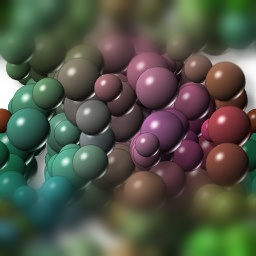
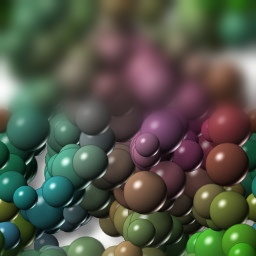
organizando repositorio

diff --git a/spatialFilters/Python/tilt_shift_video.py b/spatialFilters/Python/tilt_shift_video.py
@@ -3,36 +3,60 @@ import cv2
 import numpy as np
 
 
+
+def show_image(dtype):
+    while "e" != chr(cv2.waitKey(1) & 255):
+        output_frame = (tilt_shift.tilt_shift * 255).astype(dtype)
+        cv2.imshow("output_fraeme.astype(frame.dtype)", cv2.resize(output_frame, (500, 500)))
+
+
 def main():
     cap = cv2.VideoCapture("data/ToyStoryScene.mkv")
-    frame_size = 500
-    out = cv2.VideoWriter("data/Toy_Story_tilted.avi", cv2.VideoWriter_fourcc("M", "J", "P", "G"),
-                          int(cap.get(cv2.CAP_PROP_FPS)),
-                          (frame_size, frame_size))
 
-    tilt_shift = TiltShift(60, 100, 33)
+    frame_width = int(cap.get(cv2.CAP_PROP_FRAME_WIDTH))
+
+    frame_height = int(cap.get(cv2.CAP_PROP_FRAME_HEIGHT))
+
+    fourcc = cv2.VideoWriter_fourcc(*'XVID')
+    fourcc_2 = cv2.VideoWriter_fourcc("M", "J", "P", "G")
+    out = cv2.VideoWriter("data/Toy_Story_tilted.mkv", fourcc,
+                          int(cap.get(cv2.CAP_PROP_FPS)),
+                          (frame_width, frame_height))
+
+    tilt_shift = TiltShift(25, 45, 33)
+
+
     tilt_shift.show_track_bars("Tilt-Shift")
 
     if not cap.isOpened():
         print("erro vídeo não encontrado")
         exit(1)
-
+    if not out.isOpened():
+        print("erro ao  salvar o vídeo")
+        exit(2)
+    count = 0
     while "e" != chr(cv2.waitKey(1) & 255):
         ret, frame = cap.read()
         if ret:
             # resized_frame: np.ndarray = cv2.resize(frame, (500, 500))
             tilt_shift.set_image(frame)
             tilt_shift.show_tilt_shift(-1)
+            print(cap.get(cv2.CAP_PROP_FRAME_COUNT) - count)
+            count += 1
+
             output_frame = (tilt_shift.tilt_shift * 255).astype(frame.dtype)
-            cv2.imshow("output_frame.astype(frame.dtype)", output_frame)
+            # cv2.imshow("output_fraeme.astype(frame.dtype)", cv2.resize(output_frame, (500, 500)))
             out.write(output_frame)
 
             # tilt_shift.show_tilt_shift(-1)
             # cv2.imshow("Toy Story", resized_frame)
+        else:
+            break
 
     out.release()
     cap.release()
 
 
 if __name__ == '__main__':
+
     main()

diff --git a/spatialFilters/Python/tilt_shift.py b/spatialFilters/Python/tilt_shift.py
@@ -60,11 +60,20 @@ class TiltShift:
         if self.__delay > -1:
             cv2.imshow(self.__window_name, self.tilt_shift)
 
+    @staticmethod
+    def __normalize(x: int, t: int) -> float:
+        return x * t / 100
+
     def __update_parameters(self):
+
         if self.__track_bars:
-            self.__l1 = 2 * cv2.getTrackbarPos(self.__l1_window_name, self.__window_name) - 1
-            self.__l2_len = 2 * cv2.getTrackbarPos(self.__l2_window_name, self.__window_name)
+            self.__l1 = cv2.getTrackbarPos(self.__l1_window_name, self.__window_name) - 1
+            self.__l2_len = cv2.getTrackbarPos(self.__l2_window_name, self.__window_name)
             self.__d = 0.5 * cv2.getTrackbarPos(self.__d_window_name, self.__window_name) + 1
+
+            self.__l1 = self.__normalize(self.__l1, self.__original_image.shape[0])
+            self.__l2_len = self.__normalize(self.__l2_len, self.__original_image.shape[1] / 2)
+
 
     def show_track_bars(self, window_name: str):
         if not self.__track_bars:

diff --git a/README.md b/README.md
@@ -8,125 +8,13 @@ A versão do OpenCV utilizada é a  4.1.1.
 A versão do python utilizada é a  3.7.4  
 Versões anteriores pode haver problemas na compilação ou execução dos scrips python!!! 
 
-## Exercício Regions  
-A resposta desse exercício se encontra na pasta [regions](regions/).  
-O problema foi resolvido tanto em python quando em C++.  
 
-Para testar a solução em python  vá até a pasta [Python](regions/Python) e execute o seguinte comando:  
-```zsh
-$ python regions.py photos/biel.png # ou qualquer outra imagem
+## atividades  
 
-```
+- [regions](regions)
 
-```zsh
-$ python swap_regions.py.py photos/biel.png # ou qualquer outra imagem
+- [labeling](labeling)
 
-```
+- [histogram](histogram)
 
-Em C++, vá até a pasta [C++](regions/C++),escolha qual exercício deseja executar , entre na pasta build e execute os seguintes comandos:
-
-```zsh 
-    cmake ..
-    make
-```
-caso esteja testando o [regions](regions/C++/regions)  
-```zsh
-    ./regions photos/biel.png # ou qualquer outra imagem
-```
-Ou, caso esteja testando o [swap regions](regions/C++/swap_regions)
-```zsh
-    ./swapRegions photos/biel.png # ou qualquer outra imagem
-```
-
-## Exercício Labeling  
-A resposta desse Exercício se encontra na pasta [labeling](labeling/). 
-O problema foi resolvido tanto em python quando em C++.  
-
-Para testar a solução em python  vá até a pasta [Python](labeling/Python) e execute o seguinte comando: 
-```zsh
-$ python labeling.py images/bolhas.png
-# Provável output
-counting objects_and_holes
-all objects 21 
-objects with hole 8 
-objects with no hole 13
-just counting objects
-objects 32
-```
-Em C++, vá até a pasta [C++](labeling/C++) e execute os seguintes comandos:  
-```zsh
-$ mkdir build
-$ cd build
-$ cmake ..
-$ make
-$ ./labeling ../images/bolhas.png
-#Provável output
-counting objects and holes
-
-all Objects: 21
-Objects with holes: 8
-Objects with not holes: 13
-
-
-just counting objects: 
-
-all Objects: 32
-
-```
-## Exercício histogram
-A resposta desse Exercício se encontra na pasta [histogram](histogram/). 
-O problema foi resolvido tanto em python quando em C++.  
-
-
-__OBS:__ para executar esse exemplo, alem do opencv  você terá que instalar o libVLC. 
-
-Para testar a solução em python  vá até a pasta [Python](histogram/Python) e execute o seguinte comando: 
-```zsh
-$ python equalize.py. # pressione "e" para sair do programa
-```
-
-```zsh
-$ python motion_detector.py. # pressione "e" para sair do programa
- # não se mexa !! 
- # baby shark doo doo doo 
-```
-
-Em C++, vá até a pasta [C++](histogram/C++) e execute os seguintes comandos:  
-```zsh
-$ mkdir build
-$ cd build
-$ cmake ..
-$ make
-$ ./equalize # pressione "e" para sair do programa
-# ou 
-$ ./motionDetector # pressione "e" para sair do programa
- # não se mexa !!
- # baby shark doo doo doo 
-```
-
-
-## Exercício spatial Filters
-
-A resposta desse Exercício se encontra na pasta [spatialFilters](spatialFilters/). O problema foi resolvido em python versão 3.7.4
-
-Para testar a solução em python vá até a pasta [Python](spatialFilters/Python/) e execute o seguinte comando:
-
-```zsh
-
-$ python laplgauss.py 
-
-```
-
-```zsh 
-
-$ python tilt_shift.py
-# a imagem será salva em data/tiltShift_blend2.jpg
-``` 
-
-```zsh
-# vídeo muito lento porem ao terminar o tilt shift, você pode verificar o seu resultado
-# em data/Toy_Story_tilted.avi
-$ python tilt_shift_video.py 
-```
-
-
+- [spatialFilters](spatialFilters)

diff --git a/regions/README.md b/regions/README.md
@@ -1,0 +1,28 @@
+# Exercício Regions  
+O problema foi resolvido tanto em python quando em C++.  
+
+Para testar a solução em python  vá até a pasta [Python](Python) e execute o seguinte comando:  
+```zsh
+$ python regions.py photos/biel.png # ou qualquer outra imagem
+
+```
+
+```zsh
+$ python swap_regions.py.py photos/biel.png # ou qualquer outra imagem
+
+```
+
+Em C++, vá até a pasta [C++](C++),escolha qual exercício deseja executar , entre na pasta build e execute os seguintes comandos:
+
+```zsh 
+    cmake ..
+    make
+```
+caso esteja testando o [regions](C++/regions)  
+```zsh
+    ./regions photos/biel.png # ou qualquer outra imagem
+```
+Ou, caso esteja testando o [swap regions](C++/swap_regions)
+```zsh
+    ./swapRegions photos/biel.png # ou qualquer outra imagem
+```

diff --git a/histogram/README.md b/histogram/README.md
@@ -1,0 +1,27 @@
+# Exercício histogram
+O problema foi resolvido tanto em python quando em C++.  
+__OBS:__ para executar esse exemplo, alem do opencv  você terá que instalar o libVLC. 
+
+Para testar a solução em python  vá até a pasta [Python](Python) e execute o seguinte comando: 
+```zsh
+$ python equalize.py. # pressione "e" para sair do programa
+```
+
+```zsh
+$ python motion_detector.py. # pressione "e" para sair do programa
+ # não se mexa !! 
+ # baby shark doo doo doo 
+```
+
+Em C++, vá até a pasta [C++](C++) e execute os seguintes comandos:  
+```zsh
+$ mkdir build
+$ cd build
+$ cmake ..
+$ make
+$ ./equalize # pressione "e" para sair do programa
+# ou 
+$ ./motionDetector # pressione "e" para sair do programa
+ # não se mexa !!
+ # baby shark doo doo doo 
+```

diff --git a/spatialFilters/README.md b/spatialFilters/README.md
@@ -1,0 +1,28 @@
+# Exercício spatial Filters
+
+A resposta desse Exercício se encontra na pasta [spatialFilters](spatialFilters/). O problema foi resolvido em python versão 3.7.4
+
+Para testar a solução em python vá até a pasta [Python](spatialFilters/Python/) e execute o seguinte comando:
+
+```zsh
+
+$ python laplgauss.py 
+
+```
+
+```zsh 
+
+$ python tilt_shift.py
+# a imagem será salva em data/tiltShift_blend2.jpg
+``` 
+
+```zsh
+# vídeo muito lento e pesado
+# porem ao terminar o tilt shift, você pode verificar o seu resultado
+# em data/Toy_Story_tilted.avi
+$ python tilt_shift_video.py 
+```
+
+caso não queira esperar o vídeo foi enviado pro youtube:
+
+[![](http://img.youtube.com/vi/y_mbSRrWVj0/0.jpg)](http://www.youtube.com/watch?v=y_mbSRrWVj0 "")

diff --git a/labeling/README.md b/labeling/README.md
@@ -1,0 +1,34 @@
+# Exercício Labeling  
+O problema foi resolvido tanto em python quando em C++.  
+
+Para testar a solução em python  vá até a pasta [Python](Python) e execute o seguinte comando: 
+```zsh
+$ python labeling.py images/bolhas.png
+# Provável output
+counting objects_and_holes
+all objects 21 
+objects with hole 8 
+objects with no hole 13
+just counting objects
+objects 32
+```
+Em C++, vá até a pasta [C++](C++) e execute os seguintes comandos:  
+```zsh
+$ mkdir build
+$ cd build
+$ cmake ..
+$ make
+$ ./labeling ../images/bolhas.png
+#Provável output
+counting objects and holes
+
+all Objects: 21
+Objects with holes: 8
+Objects with not holes: 13
+
+
+just counting objects: 
+
+all Objects: 32
+
+```
